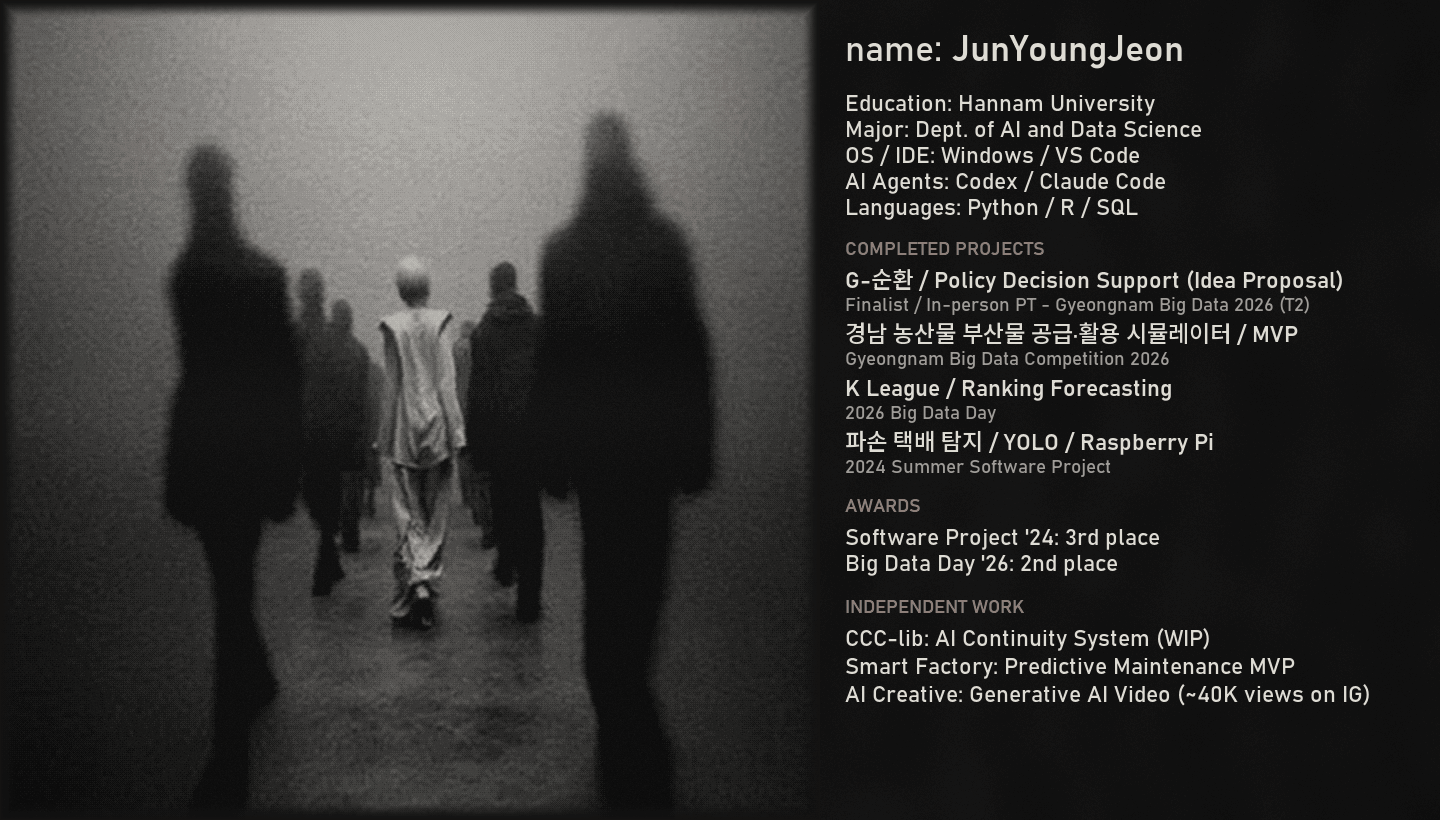
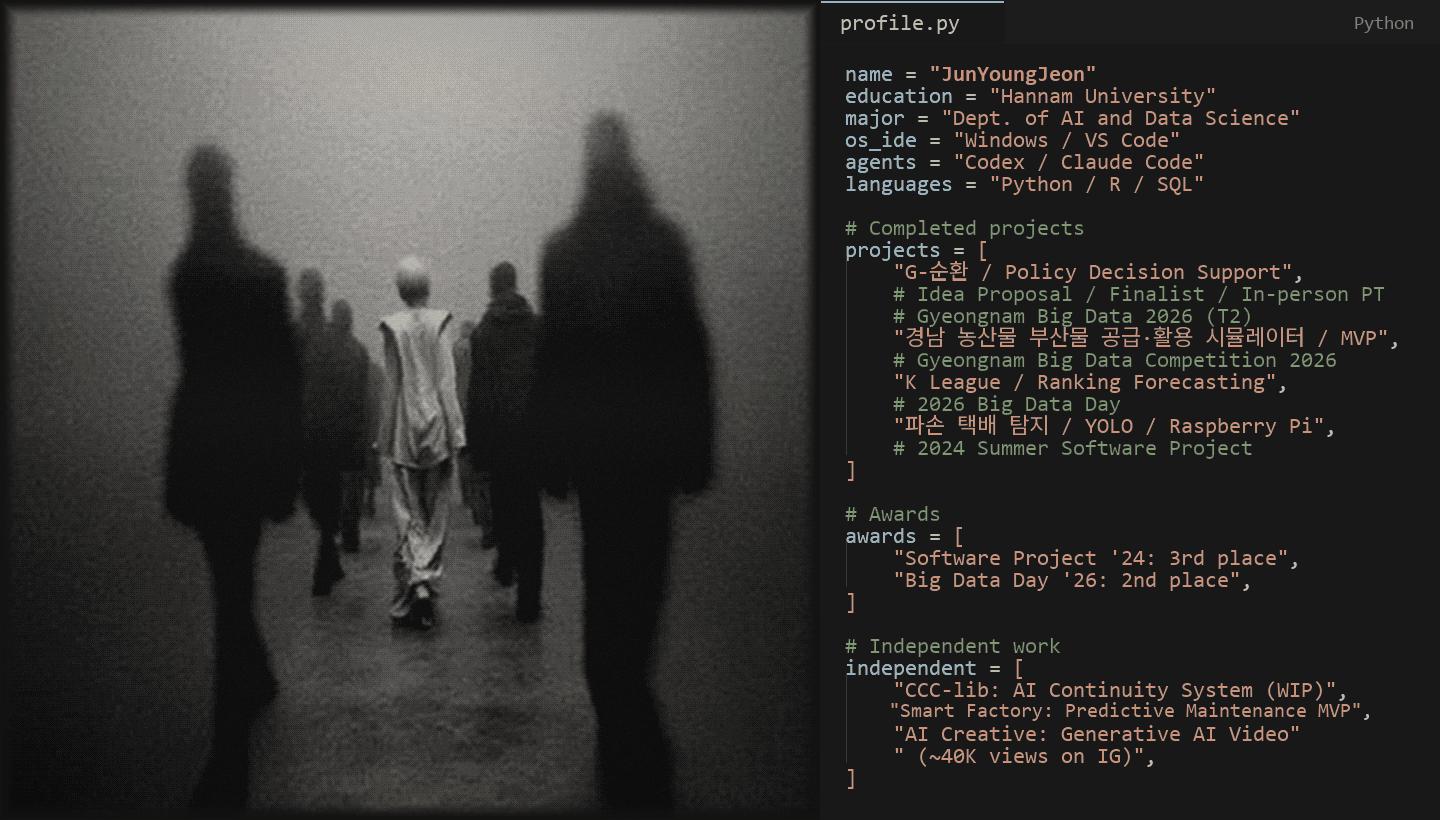
Style profile as a VS Code Python editor

diff --git a/scripts/render_artisanal.py b/scripts/render_artisanal.py
@@ -4,7 +4,7 @@ Uses a grayscale snapshot of the account's actual public avatar and local fonts.
 No generated illustrations, and no animated changes to profile text.
 """
 from pathlib import Path
-import os, math, json, hashlib
+import os, math, json, hashlib, ast, io, tokenize, token
 import numpy as np
 from PIL import Image, ImageDraw, ImageFont, ImageOps, ImageFilter
 ROOT=Path(__file__).resolve().parents[1]
@@ -25,8 +25,8 @@ def locate(names):
 # Local industrial sans, with a deliberately condensed display cut.
 # No font binaries are distributed with the artwork.
 F={
-"mono":locate(["bahnschrift.ttf","DejaVuSans.ttf"]),
-"bold":locate(["bahnschrift.ttf","DejaVuSans-Bold.ttf"]),
+"mono":locate(["consola.ttf","DejaVuSansMono.ttf"]),
+"bold":locate(["consolab.ttf","DejaVuSansMono-Bold.ttf"]),
 "serif":locate(["bahnschrift.ttf","DejaVuSans.ttf"]),
 "ko":locate(["NotoSansKR-VF.ttf","malgun.ttf","NotoSansCJK-Regular.ttc"]),
 "kob":locate(["NotoSansKR-VF.ttf","malgunbd.ttf","NotoSansCJK-Bold.ttc"])}
@@ -58,19 +58,88 @@ def text(d,x,y,s,color=BONE,size=22,kind="mono",right=False):
         d.text((round(x),y+size),v,font=f,fill=color,anchor="ls")
         x+=f.getlength(v)
     return x
-def fit(d,x,y,s,color=BONE,size=24,kind="mono"):
-    while width(s,kind,size)>RX-x and size>19:
-        size-=1
-    assert width(s,kind,size)<=RX-x,(s,size)
-    text(d,x,y,s,color,size,kind)
-def section(d,y,title):
-    fit(d,LX,y,title,RUST,19,"bold")
-def inline(d,y,label,value,size=23):
-    # Natural inline text, with no artificial fill or column alignment.
-    fit(d,LX,y,label+": "+value,BONE,size)
-def project(d,y,name,desc,detail):
-    fit(d,LX,y,name+" / "+desc,BONE,23,"bold")
-    fit(d,LX,y+27,detail,MUTED,19)
+# VS Code Dark+ inspired source rendering. The displayed Python is valid,
+# generated from the existing profile record, and does not execute anything.
+EDITOR_BG=(24,24,24)
+EDITOR_FG=(212,212,212)
+EDITOR_NAME=(156,220,254)
+EDITOR_STR=(206,145,120)
+EDITOR_COMMENT=(106,153,85)
+EDITOR_BRACKET=(255,215,0)
+EDITOR_DIM=(128,128,128)
+def profile_code(data):
+    q=lambda s:json.dumps(s,ensure_ascii=False)
+    keys=["education","major","os_ide","agents","languages"]
+    lines=['name = '+q("JunYoungJeon")]
+    lines.extend(k+" = "+q(v) for k,(_,v) in zip(keys,data["system"]))
+    lines+=["","# Completed projects","projects = ["]
+    for i,(name,desc,detail) in enumerate(data["projects"]):
+        if i==0:
+            lines+=["    "+q(name+" / Policy Decision Support")+",",
+                    "    # Idea Proposal / Finalist / In-person PT",
+                    "    # Gyeongnam Big Data 2026 (T2)"]
+        else:
+            lines+=["    "+q(name+" / "+desc)+",","    # "+detail]
+    lines+=["]","","# Awards","awards = ["]
+    lines+=["    "+q(k+": "+v)+"," for k,v in data["awards"]]
+    lines+=["]","","# Independent work","independent = ["]
+    for k,v in data["independent"]:
+        if k=="AI Creative" and " (" in v:
+            lead,tail=v.split(" (",1)
+            lines+=["    "+q(k+": "+lead), "    "+q(" ("+tail)+","]
+        else:
+            lines.append("    "+q(k+": "+v)+",")
+    lines+=["]"]
+    source="\n".join(lines)+"\n"
+    tree=ast.parse(source)
+    vals={n.targets[0].id:ast.literal_eval(n.value) for n in tree.body if isinstance(n,ast.Assign)}
+    assert vals["name"]=="JunYoungJeon"
+    assert len(vals["projects"])==4 and len(vals["awards"])==2 and len(vals["independent"])==3
+    assert vals["awards"]==[k+": "+v for k,v in data["awards"]]
+    assert vals["independent"]==[k+": "+v for k,v in data["independent"]]
+    assert vals["projects"][1:]==[k+" / "+v for k,v,_ in data["projects"][1:]]
+    return source
+def token_color(t):
+    if t.type==token.STRING:return EDITOR_STR
+    if t.type==token.NAME:return EDITOR_NAME
+    if t.type==tokenize.COMMENT:return EDITOR_COMMENT
+    if t.type==token.OP and t.string in "[]{}()":return EDITOR_BRACKET
+    return EDITOR_FG
+def code_panel(d,data):
+    # Minimal editor tab and gutter, no toolbar clutter or dotted leaders.
+    d.rectangle((820,0,W,H),fill=EDITOR_BG)
+    d.rectangle((820,0,W,43),fill=(30,30,30))
+    d.rectangle((820,0,1004,42),fill=EDITOR_BG)
+    d.line((821,1,1003,1),fill=(86,156,214),width=2)
+    text(d,840,8,"profile.py",(204,204,204),22,"mono")
+    text(d,RX,10,"Python",EDITOR_DIM,19,"mono",right=True)
+    source=profile_code(data)
+    lines=source.splitlines()
+    groups={}
+    for t in tokenize.generate_tokens(io.StringIO(source).readline):
+        if t.type in (token.NAME,token.STRING,token.OP,tokenize.COMMENT):
+            if t.start[0]==t.end[0]:groups.setdefault(t.start[0],[]).append(t)
+    start_y=59
+    step=22
+    assert start_y+(len(lines)-1)*step+23<=H-8,(len(lines),H)
+    for i,line in enumerate(lines,1):
+        y=start_y+(i-1)*step
+        if not line:continue
+        size=22
+        while width(line,"mono",size)>RX-LX and size>18:size-=1
+        assert width(line,"mono",size)<=RX-LX,(line,size)
+        x=LX;end=0
+        if line.startswith("    "):
+            d.line((LX+1,y-1,LX+1,y+step-1),fill=(57,57,57),width=1)
+        for t in groups.get(i,[]):
+            l,r=t.start[1],t.end[1]
+            if l>end:x+=width(line[end:l],"mono",size)
+            frag=line[l:r]
+            kind="bold" if i==1 and t.type==token.STRING else "mono"
+            x=text(d,x,y,frag,token_color(t),size,kind)
+            end=r
+        if end<len(line):x=text(d,x,y,line[end:],EDITOR_FG,size)
+        assert x<=RX+1,(i,line,x)
 def surface():
     rng=np.random.default_rng(261126)
     yy,xx=np.mgrid[0:H,0:W]
@@ -80,21 +149,8 @@ def surface():
     a-=2.8*((xx-W*.52)/(W*.55))**2+1.2*((yy-H*.5)/(H*.5))**2
     return Image.fromarray(np.stack((a*1.02,a,a*.98),-1).clip(0,255).astype(np.uint8),"RGB")
 def panel(data):
-    im=surface();d=ImageDraw.Draw(im)
-    x=text(d,LX,25,"name: ",BONE,36,"mono")
-    assert x+width("JunYoungJeon","bold",36)<=RX
-    text(d,x,25,"JunYoungJeon",BONE,36,"bold")
-    for i,(k,v) in enumerate(data["system"]):
-        inline(d,88+26*i,k,v)
-    section(d,236,"COMPLETED PROJECTS")
-    for i,(a,b,c) in enumerate(data["projects"]):
-        project(d,265+54*i,a,b,c)
-    section(d,493,"AWARDS")
-    for i,(k,v) in enumerate(data["awards"]):
-        inline(d,522+26*i,k,v)
-    section(d,594,"INDEPENDENT WORK")
-    for i,(k,v) in enumerate(data["independent"]):
-        inline(d,623+28*i,k,v,23)
+    im=surface()
+    code_panel(ImageDraw.Draw(im),data)
     return im
 def source():
     src=Image.open(A/"avatar-art-source.png").convert("L")
